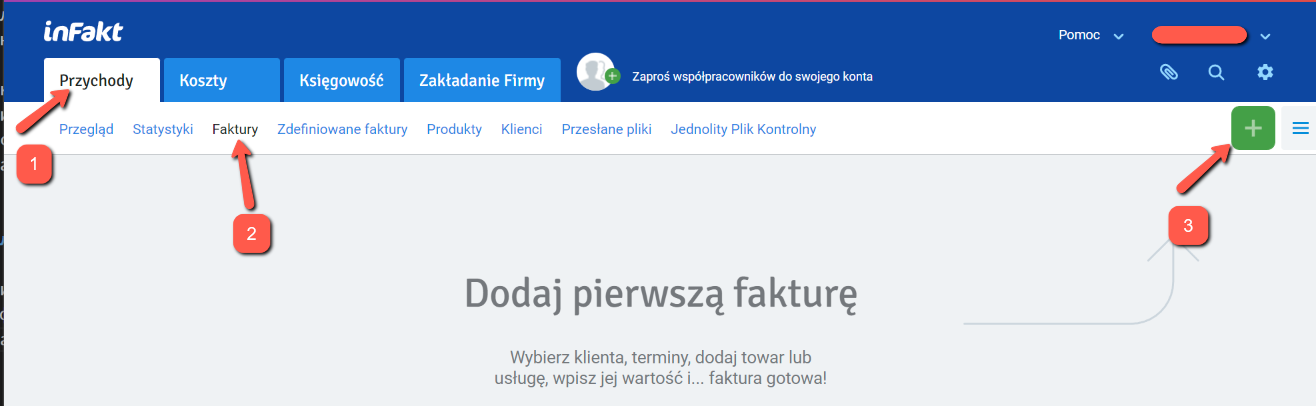
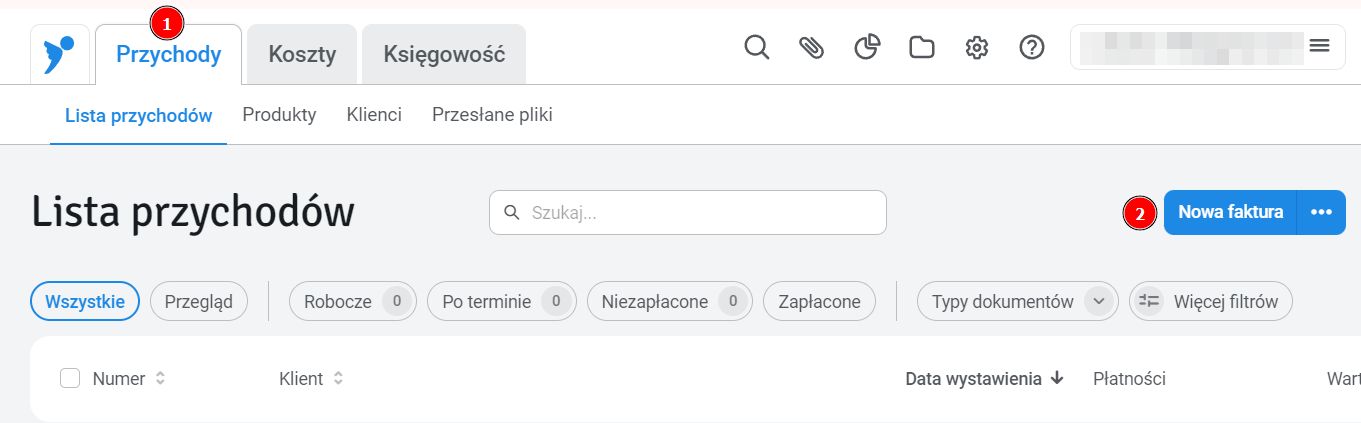
new screenshots

diff --git a/docs/infakt_routine.md b/docs/infakt_routine.md
@@ -14,7 +14,7 @@
 
 ## Выставление фактур
 
-В последний день месяца (если у вас с заказчиком договоренность на помесячную оплату), или по факту выполнения (отгрузки) работ необходимо сгенерировать и выставить фактуру заказчику. Для этого перейдите в раздел [Przychody -> Faktury][1] и нажать кнопку **Nowa faktura (dawny rachunek)**.
+В последний день месяца (если у вас с заказчиком договоренность на помесячную оплату), или по факту выполнения (отгрузки) работ необходимо сгенерировать и выставить фактуру заказчику. Для этого перейдите в раздел [Przychody][1] и нажать кнопку **Nowa faktura**.
 
 ![Nowa faktura][2]
 
@@ -24,39 +24,37 @@
 
 Для выбранного заказчика, либо из списка услуг:
 
-**Przychody -> Produkty**, чекнуть нужную услугу, и выбрать **Nowa faktura**, выбираем Faktura VAT.
+**Przychody -> Produkty**, чекнуть нужную услугу, и выбрать **Nowa faktura**.
 
 В новой фактуре выбираем/корректируем необходимые поля (если не выбрано):
 
 1. заказчика (из списка)
 2. дату оказания услуги (последний день месяца либо дату фактической услуги, если они нерегулярны)
-3. номер банковского счета (если больше одного)
+3. выбор варианта оплаты фактуры, наиболее вероятно это будет **Przelew** (перевод на банковский счет) и выбрать счет (если их несколько). А если ни один счет не добавлен, то сервис предложит его добавить
 4. услугу
-5. количество "услуги" (если почасовая, то кол-во отработанных часов, если фиксированная ставка, то оставляем 1, так как сумма нетто уже есть ставка)
+5. количество "услуги" (если почасовая, то кол-во отработанных часов, если фиксированная ставка, то оставляем 1, так как сумма нетто уже есть ставка), а также вашу процентную ставку Ryczałt и VAT.
 6. ВНИМАНИЕ! Если вы освобождены от VAT (не являетесь czynnym плательщиком VAT), либо если вы выставляете фактуру на
    экспорт (в страну, отличную от Польши), то в самом низу нажмите кнопку "**Uwagi: Dodaj**" и добавьте следующий
    комментарий:
+
+(TODO: нужно актуализировать по VAT)
 
 > Reverse charge - VAT is charged to the buyer.
 > Do rozliczenia podatku VAT zobowiązany jest nabywca usługi (odwrotne obciążenie).
 
 ![4]
 
-Нажимаете кнопку **Zapisz fakturę** для сохранения данных. Фактура записана!
+Нажимаете кнопку **Zapisz szkic** для сохранения данных. Фактура записана!
 
 > Важно: На этом этапе фактура еще не участвует в расчете налоговой базы за выбранный месяц (пока она находится в статусе `SZKIC`). Для того чтобы фактура попала в зачет, необходимо ее напечатать или выслать клиенту.
 
-Для этого нужно в [списке фактур][1] выбрать нужную фактуру, и выбрать **Drukuj** либо **Wyślij e-mailem**. Правда в этом случае нет возможности выбрать язык фактуры (TODO: возможно какая-то настройка на это влияет).
-
-Для возможности выбора языка фактуры надо открыть саму фактуру (щелкнув на нее), и оттуда выбрать **Drukuj fakturę**.
+Для этого нужно в [списке фактур][1] выбрать нужную фактуру, и выбрать **Pobierz PDF**, там же будет и выбор языков.
 
 ![5]
 
-Ссылка на фактуру придет на почту и сама PDF откроется в новом окне.
-
 После печати статус фактуры сменяется на `WYDRUKOWANO` и она начинает считаться в налог на следующий месяц и в ZUS.
 
-![6]
+Также фактуру можно сразу отправить на e-mail клиента выбрав пункт **Wyślij e-mailem**
 
 ## Оплата налогов
 
